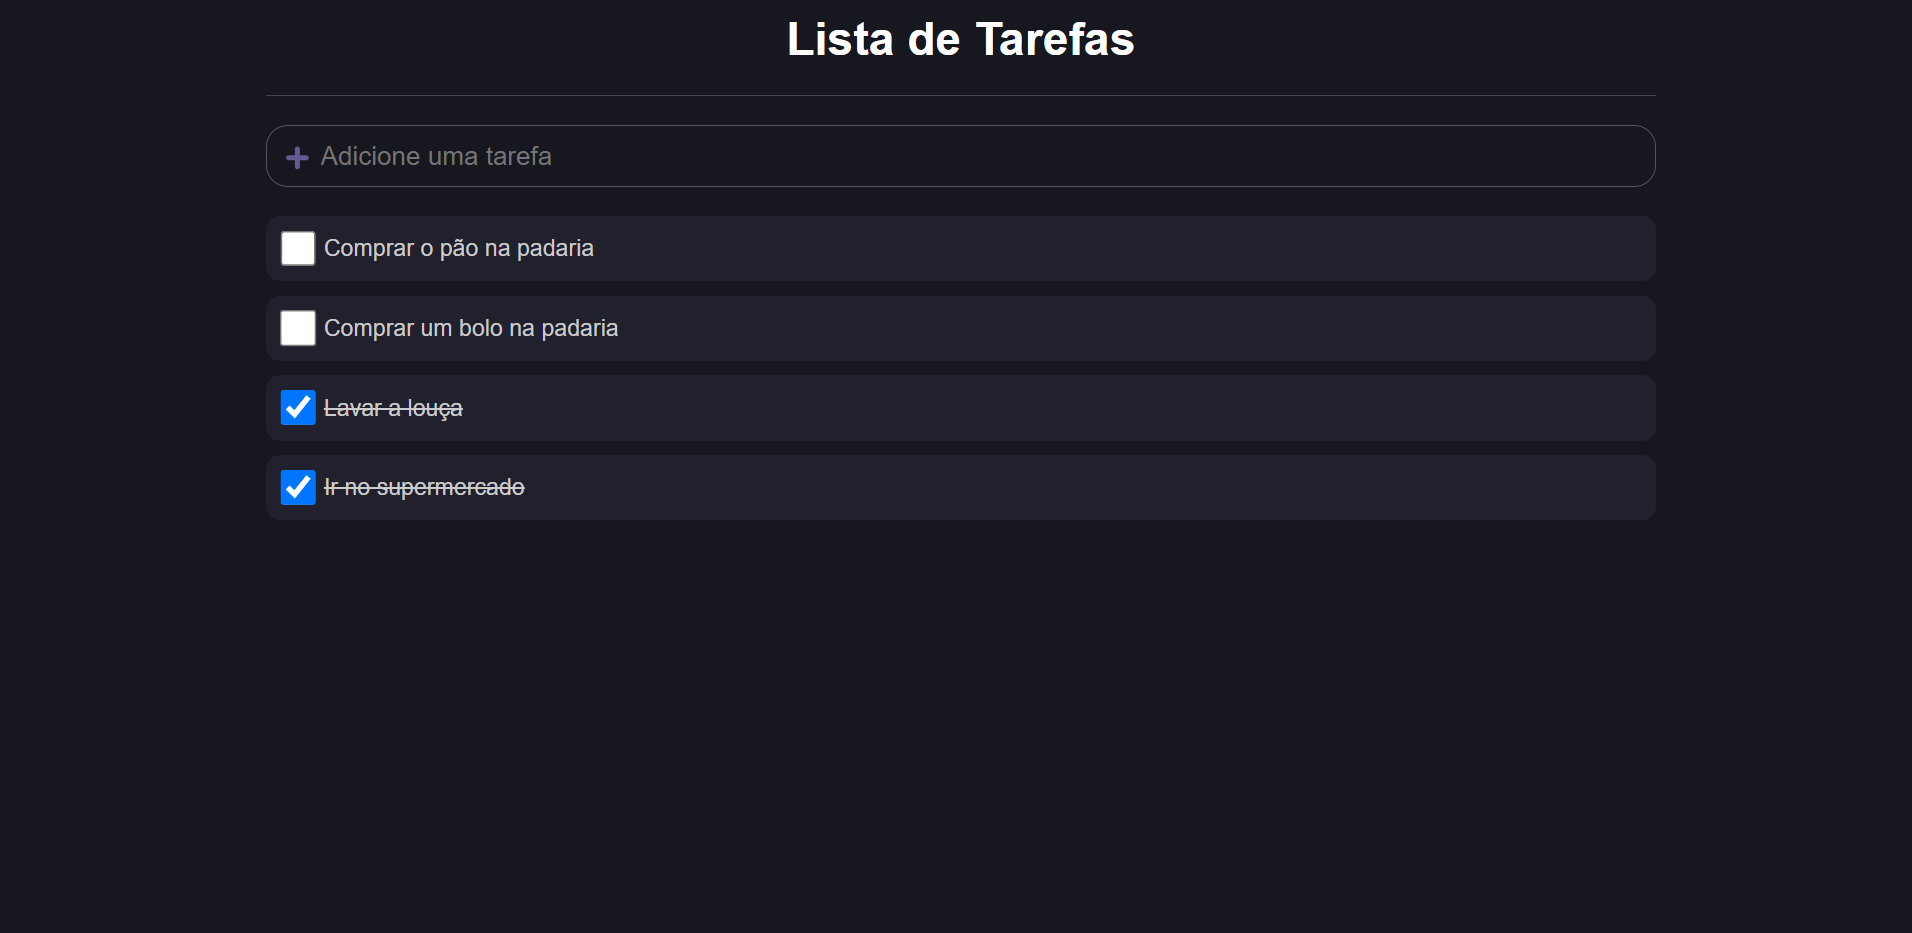
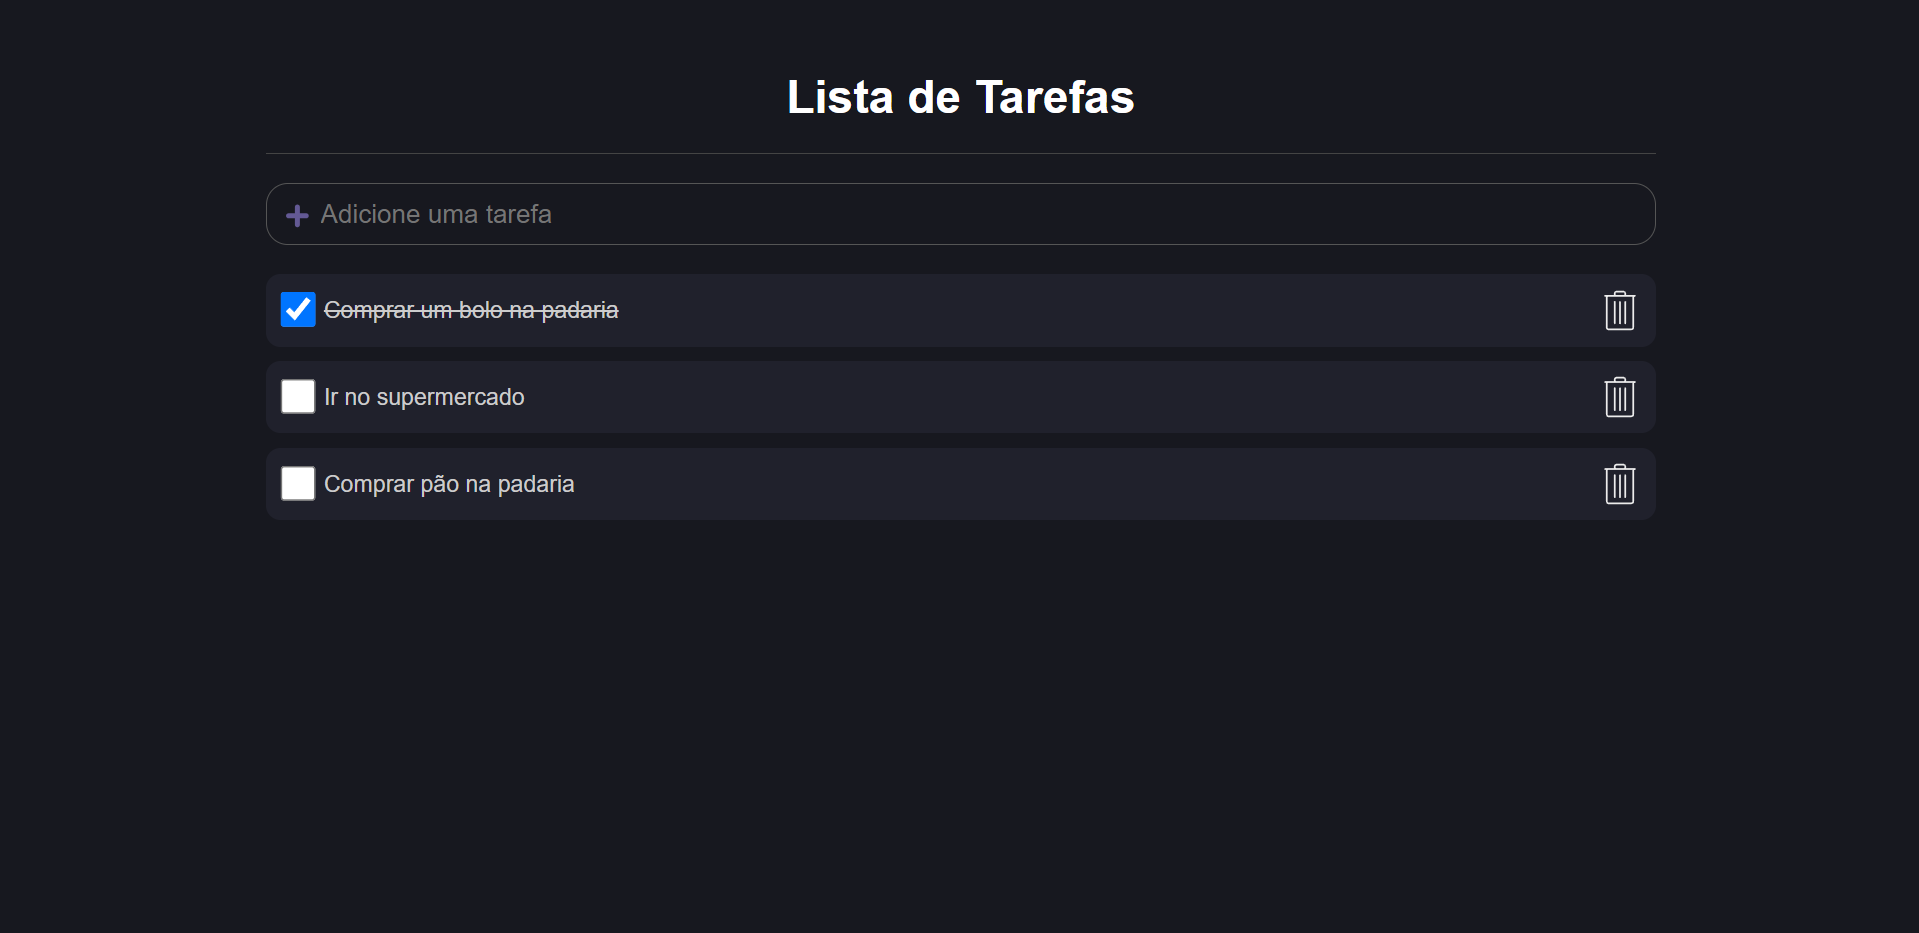
feat: adição funcao excluir tarefa

diff --git a/src/components/ListItem/index.tsx b/src/components/ListItem/index.tsx
@@ -1,20 +1,27 @@
-import * as C from './styles';
-import { Item } from '../../types/Item';
+import * as C from "./styles";
+import { Item } from "../../types/Item";
+import imagem from "../../assets/icon-lixeira.svg";
 
 type Props = {
-    item: Item,
-    onChange: (id: number, done: boolean) => void
-}
+  item: Item;
+  onChange: (id: number, done: boolean) => void;
+  removeTodo: (id: number) => void;
+};
 
-export const ListItem = ({ item, onChange }: Props) => {
-    return (
-        <C.Container done={item.done}>
-            <input
-                type="checkbox"
-                checked={item.done}
-                onChange={e => onChange(item.id, e.target.checked)}
-            />
-            <label>{item.name}</label>
-        </C.Container>
-    );
-}
+export const ListItem = ({ item, onChange, removeTodo }: Props) => {
+  return (
+    <C.Container done={item.done}>
+      <div>
+        <input
+          type="checkbox"
+          checked={item.done}
+          onChange={(e) => onChange(item.id, e.target.checked)}
+        />
+        <label>{item.name}</label>
+      </div>
+      <div onClick={() => removeTodo(item.id)}>
+        <img className="imagem-svg" src={imagem} alt="lixeira" />
+      </div>
+    </C.Container>
+  );
+};

diff --git a/src/App.tsx b/src/App.tsx
@@ -21,7 +21,6 @@ const App = () => {
     setList(newList);
   };
 
-  // Função feita para tarefinha de casa.
   const handleTaskChange = (id: number, done: boolean) => {
     let newList = [...list];
     for (let i in newList) {
@@ -32,17 +31,26 @@ const App = () => {
     setList(newList);
   };
 
+  const removeTodo = (id: number) => {
+    const uptadeTodos = list.filter((todo) => todo.id !== id);
+    setList(uptadeTodos);
+  };
+
   return (
-  
     <C.Container>
       <ResetStyles />
       <C.Area>
         <C.Header>Lista de Tarefas</C.Header>
-
+        <div className="faaf"></div>
         <AddArea onEnter={handleAddTask} />
 
         {list.map((item, index) => (
-          <ListItem key={index} item={item} onChange={handleTaskChange} />
+          <ListItem
+            key={index}
+            item={item}
+            onChange={handleTaskChange}
+            removeTodo={removeTodo}
+          />
         ))}
       </C.Area>
     </C.Container>

diff --git a/src/components/ListItem/styles.ts b/src/components/ListItem/styles.ts
@@ -4,22 +4,33 @@ type ContainerProps = {
   done: boolean;
 };
 
-export const Container = styled.div.attrs(({ done }: ContainerProps) => ({done,}))`
+export const Container = styled.div.attrs(({ done }: ContainerProps) => ({
+  done,
+}))`
   display: flex;
+  justify-content: space-between;
   background-color: #20212c;
   padding: 10px;
   border-radius: 10px;
   margin-bottom: 10px;
-  align-items: center;
 
+  div {
+    display: flex;
+    align-items: center;
+  }
   input {
     width: 25px;
     height: 25px;
     margin-right: 5px;
+    cursor: pointer;
   }
 
   label {
     color: #ccc;
-    text-decoration: ${props => (props.done ? "line-through" : "initial")};
+    text-decoration: ${(props) => (props.done ? "line-through" : "initial")};
+  }
+
+  .imagem-svg {
+    cursor: pointer;
   }
 `;

diff --git a/src/App.style.ts b/src/App.style.ts
@@ -1,19 +1,20 @@
-import styled from "styled-components"
+import styled from "styled-components";
 
 export const Container = styled.div`
-background-color: #17181f;
-color: #797a81;
-min-height: 100vh;
-` 
+  background-color: #17181f;
+  color: #797a81;
+  min-height: 100vh;
+`;
 export const Area = styled.div`
-margin: auto;
-max-width: 980px;
-padding: 10px;
-`
+  margin: auto;
+  max-width: 980px;
+  padding: 10px;
+`;
 export const Header = styled.h1`
-color: #fff;
-text-align: center;
-border-bottom: 1px solid #444;
-padding-bottom: 20px;
-font-family: Arial, Helvetica, sans-serif;
-`
+  color: #fff;
+  text-align: center;
+  border-bottom: 1px solid #444;
+  padding-bottom: 20px;
+  font-family: Arial, Helvetica, sans-serif;
+  margin-top: 40px;
+`;
